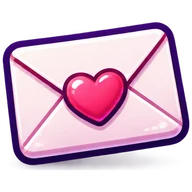
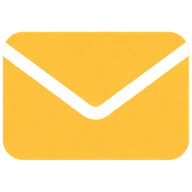
「ほかのゲーム」「感想」リンクのアイコンを、AIゲーム実験室と同じシンプルなフラットな絵に

diff --git a/index.html b/index.html
@@ -60,7 +60,7 @@
         </div>
         <div class="panel-body" id="overlay-body"></div>
         <div class="panel-btns" id="overlay-btns"></div>
-        <a class="panel-link hidden" id="overlay-feedback" href="../ad-games/feedback.html?game=power"><img class="lk-ic" src="img/ui/icon_feedback.webp" alt="" width="96" height="96">感想・改善案を送る</a>
+        <a class="panel-link hidden" id="overlay-feedback" href="../ad-games/feedback.html?game=power"><img class="lk-ic" src="img/ui/icon_feedback.webp?v=2" alt="" width="96" height="96">感想・改善案を送る</a>
       </div>
     </div>
     <div id="confetti" class="confetti"></div>
@@ -77,7 +77,7 @@
       <div class="title-coins"><img src="img/items/coins.webp" alt=""><span id="title-coins">0</span></div>
       <div class="title-links">
         <button class="a2hs-btn hidden" id="a2hs-btn">📲 ホーム画面に追加</button>
-        <a class="games-btn" href="../ad-games/"><img class="lk-ic" src="img/ui/icon_games.webp" alt="" width="96" height="96">ほかのゲーム</a>
+        <a class="games-btn" href="../ad-games/"><img class="lk-ic" src="img/ui/icon_games.webp?v=2" alt="" width="96" height="96">ほかのゲーム</a>
       </div>
     </section>
 
@@ -126,7 +126,7 @@
       </div>
       <div class="shop-list" id="shop-list"></div>
       <p class="shop-note">金貨はステージクリアでもらえます。★が多いほどたくさん！</p>
-      <a class="feedback-btn" href="../ad-games/feedback.html?game=power"><img class="lk-ic" src="img/ui/icon_feedback.webp" alt="" width="96" height="96">感想・改善案を送る</a>
+      <a class="feedback-btn" href="../ad-games/feedback.html?game=power"><img class="lk-ic" src="img/ui/icon_feedback.webp?v=2" alt="" width="96" height="96">感想・改善案を送る</a>
     </section>
   </div>
 
